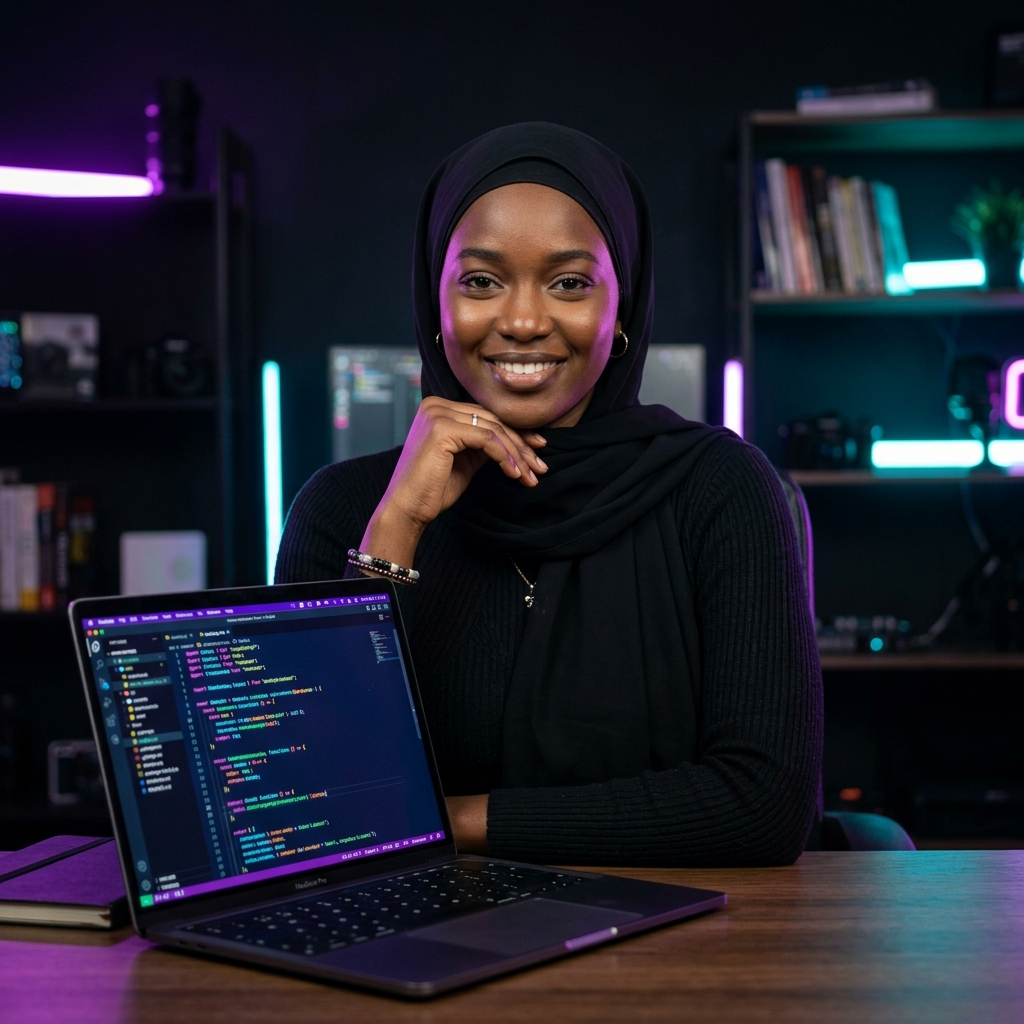
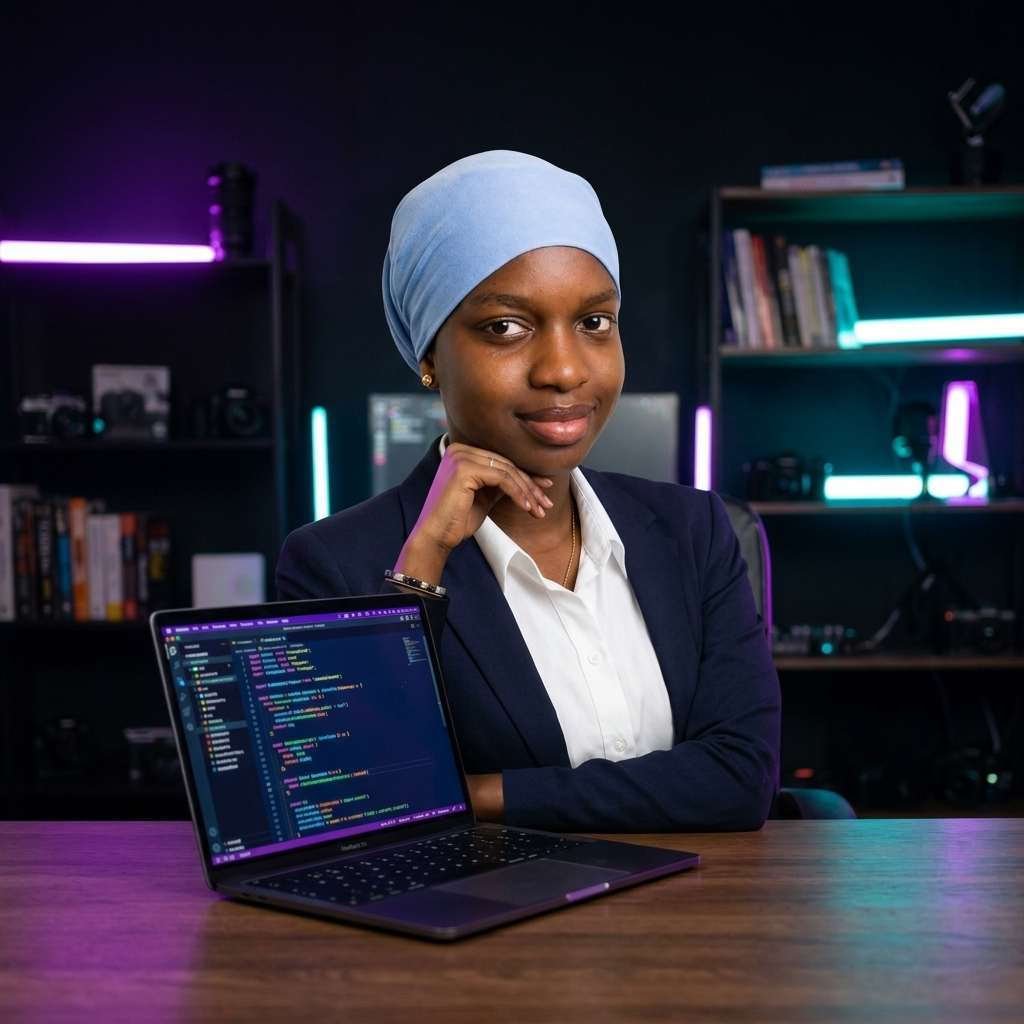
Intégration de la vraie photo de Mame Faty avec le cadre circulaire néon, anneau orbital et script Code Create Improve

diff --git a/css/style.css b/css/style.css
@@ -451,68 +451,97 @@ button, input, select, textarea {
   box-shadow: 0 4px 12px rgba(37, 99, 235, 0.35);
 }
 
-/* Visuel Hero : Photo avec motifs technologiques et doodle manuscrit */
+/* Visuel Hero : Cadre Circulaire Néon avec Anneau Orbital et Script */
 .hero-v3-visual {
   position: relative;
   display: flex;
   justify-content: center;
-  align-items: flex-end;
+  align-items: center;
+  padding: 20px 0;
 }
 
-.hero-photo-wrap {
+.hero-circle-container {
   position: relative;
-  width: 100%;
-  max-width: 440px;
+  width: 440px;
+  height: 440px;
+  display: flex;
+  align-items: center;
+  justify-content: center;
 }
 
-.hero-photo-wrap img {
-  width: 100%;
-  height: auto;
-  border-radius: var(--radius-lg);
-  object-fit: cover;
-  position: relative;
-  z-index: 2;
-  box-shadow: 0 20px 40px -10px rgba(11, 23, 51, 0.15);
-}
-
-/* Grille technologique bleue (cubes de code en arrière-plan) */
-.hero-tech-tiles {
+/* Anneau orbital externe cyan lumineux avec coupure */
+.hero-orbit-ring {
   position: absolute;
-  top: -24px;
-  left: -24px;
-  width: 140px;
-  height: 140px;
-  display: grid;
-  grid-template-columns: repeat(4, 1fr);
-  gap: 8px;
-  z-index: 1;
-  opacity: 0.65;
-}
-
-.hero-tech-tiles span {
-  background: rgba(37, 99, 235, 0.25);
-  border: 1px solid rgba(37, 99, 235, 0.4);
-  border-radius: 4px;
-}
-
-.hero-tech-tiles span:nth-child(even) {
-  background: rgba(56, 189, 248, 0.35);
-}
-
-/* Annotation manuscrite officielle "Code Créer Innover ♡" */
-.hero-hand-doodle {
-  position: absolute;
-  right: -20px;
-  bottom: 80px;
-  z-index: 3;
-  font-family: var(--font-script);
-  font-size: 2.1rem;
-  font-weight: 700;
-  line-height: 1.2;
-  color: var(--cyan-accent);
-  text-shadow: 0 2px 14px rgba(11, 23, 51, 0.8), 0 0 2px rgba(11, 23, 51, 0.9);
-  transform: rotate(3deg);
+  top: -16px;
+  left: -16px;
+  right: -16px;
+  bottom: -16px;
+  border-radius: 50%;
+  border: 2.5px solid transparent;
+  border-top-color: #38BDF8;
+  border-left-color: #38BDF8;
+  border-bottom-color: #2563EB;
+  transform: rotate(-25deg);
+  box-shadow: 0 0 16px rgba(56, 189, 248, 0.45);
   pointer-events: none;
+  z-index: 2;
+  animation: orbitPulse 5s ease-in-out infinite alternate;
+}
+
+@keyframes orbitPulse {
+  0% {
+    transform: rotate(-25deg) scale(0.99);
+    opacity: 0.85;
+  }
+  100% {
+    transform: rotate(-20deg) scale(1.02);
+    opacity: 1;
+    box-shadow: 0 0 25px rgba(56, 189, 248, 0.75);
+  }
+}
+
+/* Cadre circulaire principal avec bordure dégradée violette/bleue et ombre lumineuse */
+.hero-circle-frame {
+  position: relative;
+  width: 390px;
+  height: 390px;
+  border-radius: 50%;
+  padding: 8px;
+  background: linear-gradient(135deg, #7C3AED 0%, #3B82F6 50%, #06B6D4 100%);
+  box-shadow: 0 0 35px rgba(37, 99, 235, 0.35), 0 0 70px rgba(124, 58, 237, 0.25), 0 20px 40px rgba(11, 23, 51, 0.15);
+  display: flex;
+  align-items: center;
+  justify-content: center;
+  z-index: 3;
+}
+
+.hero-circle-frame img {
+  width: 100%;
+  height: 100%;
+  border-radius: 50%;
+  object-fit: cover;
+  display: block;
+}
+
+/* Annotation manuscrite officielle néon "Code Create Improve" */
+.hero-hand-doodle-neon {
+  position: absolute;
+  right: -25px;
+  bottom: 30px;
+  z-index: 5;
+  font-family: var(--font-script);
+  font-size: 2.2rem;
+  font-weight: 700;
+  line-height: 1.15;
+  color: #FFFFFF;
+  text-shadow:
+    0 0 8px rgba(56, 189, 248, 0.95),
+    0 0 18px rgba(56, 189, 248, 0.65),
+    0 0 32px rgba(37, 99, 235, 0.8),
+    0 2px 10px rgba(11, 23, 51, 0.9);
+  pointer-events: none;
+  text-align: left;
+  transform: rotate(-4deg);
 }
 
 /* Signature Vague dynamique ondulée en bas du Hero */

diff --git a/index.html b/index.html
@@ -106,18 +106,22 @@
             </div>
           </div>
 
-          <!-- Colonne Droite : Photo avec motif technologique et mot manuscrit -->
+          <!-- Colonne Droite : Cadre circulaire néon avec anneau orbital et mot manuscrit -->
           <div class="hero-v3-visual">
-            <div class="hero-photo-wrap">
-              <div class="hero-tech-tiles" aria-hidden="true">
-                <span></span><span></span><span></span><span></span>
-                <span></span><span></span><span></span><span></span>
-                <span></span><span></span><span></span><span></span>
-                <span></span><span></span><span></span><span></span>
+            <div class="hero-circle-container">
+              <!-- Anneau orbital cyan lumineux -->
+              <div class="hero-orbit-ring" aria-hidden="true"></div>
+
+              <!-- Cadre circulaire principal avec bordure dégradée -->
+              <div class="hero-circle-frame">
+                <img src="assets/mamefaty-desk.jpg" alt="Kaire Mame Faty, Développeuse Fullstack" width="440" height="440">
               </div>
-              <img src="assets/avatar-hero.jpg" alt="Kaire Mame Faty, Développeuse Fullstack" width="440" height="480">
-              <div class="hero-hand-doodle" aria-hidden="true">
-                Code<br>Créer<br>Innover<br>♡
+
+              <!-- Annotation manuscrite officielle néon -->
+              <div class="hero-hand-doodle-neon" aria-hidden="true">
+                Code<br>
+                Create<br>
+                Improve
               </div>
             </div>
           </div>
